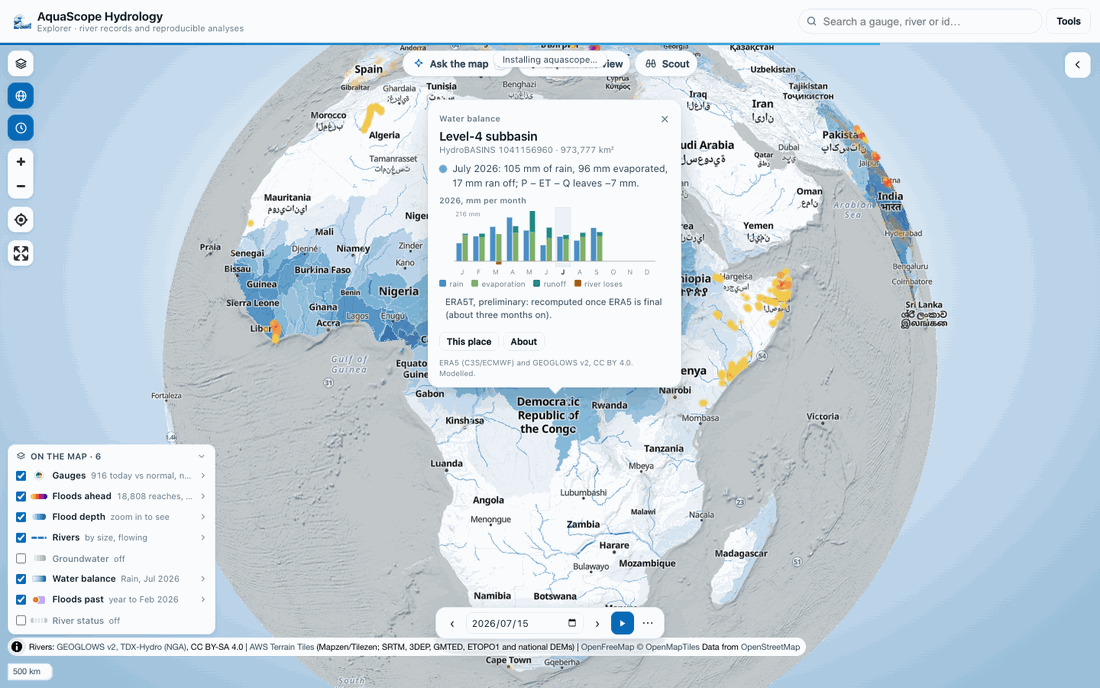
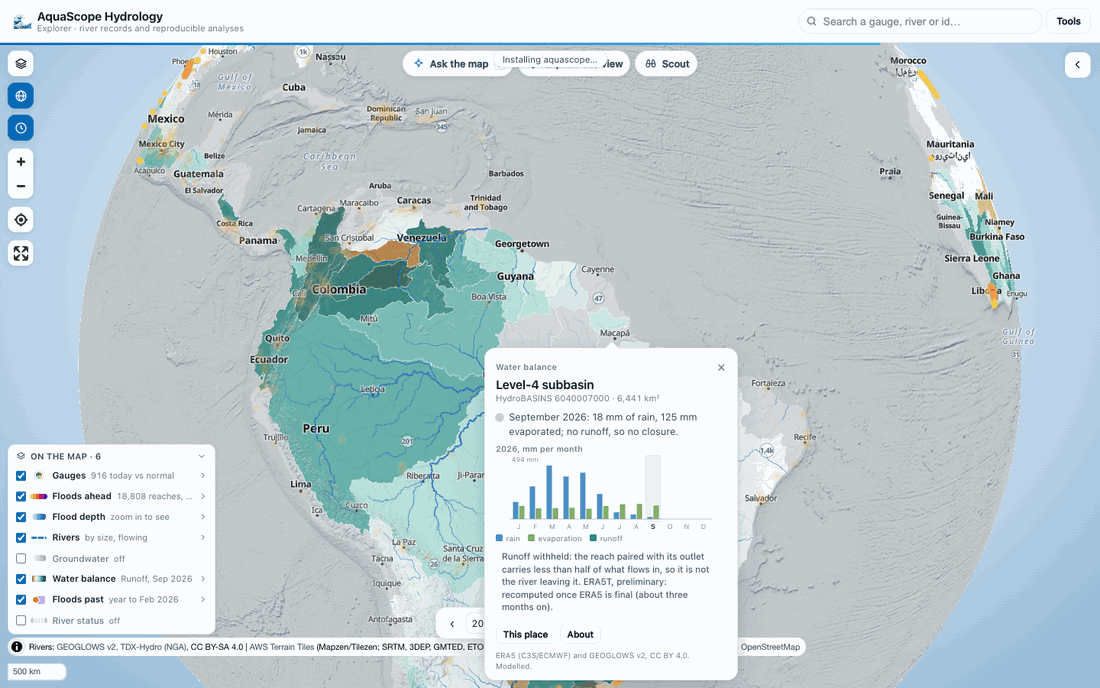
Review (#557): the bars' scale above the bars; screenshots with withheld runoff

diff --git a/explorer/src/waterbalance-core.js b/explorer/src/waterbalance-core.js
@@ -214,8 +214,8 @@ const BAR = { p: "#4a8fc7", et: "#7fb069", q: "#1f8a80", loss: "#a6611a", tick: 
  * The card's bars: the year's months, rain beside evaporation with runoff stacked on it (the gap between the
  * two is the closure error), the normal rain as a short dark tick, the month on the map shaded. An SVG string.
  */
-export function balanceBars(rows, { month = null, normalP = null, w = 264, h = 92 } = {}) {
-  const top = 6, base = h - 16;
+export function balanceBars(rows, { month = null, normalP = null, w = 264, h = 100 } = {}) {
+  const top = 14, base = h - 16;   // the scale's label sits above the tallest bar, not on it
   const vals = [];
   rows.forEach((r, i) => {
     if (Number.isFinite(r.p_mm)) vals.push(r.p_mm);
@@ -261,7 +261,7 @@ export function balanceBars(rows, { month = null, normalP = null, w = 264, h = 9
     parts.push(`<text x="${(m * slot + slot / 2).toFixed(1)}" y="${h - 3}" text-anchor="middle" font-size="9" ` +
       `fill="${ym === month ? "#1f2933" : "#7b8794"}"${ym === month ? ' font-weight="600"' : ""}>${LONG[m][0]}</text>`);
   }
-  parts.push(`<text x="2" y="${top + 7}" font-size="8.5" fill="#7b8794">${fmt0(hi)} mm</text>`);
+  parts.push(`<text x="2" y="${top - 5}" font-size="8.5" fill="#7b8794">${fmt0(hi)} mm</text>`);
   parts.push("</svg>");
   return parts.join("");
 }

diff --git a/docs/explorer.md b/docs/explorer.md
@@ -606,7 +606,7 @@ month from January 1990, so play walks the months.
 - **Turning it on** turns the river status off while it is on (both colour the same
   level-4 basins) and back on after.
 
-![The card of a subbasin: the year as bars](img/globe/waterbalance-card.png)
+![The card of a subbasin at the Amazon mouth: the year as bars, and why its runoff is withheld](img/globe/waterbalance-card.png)
 
 Months after ERA5's final data are ERA5T, preliminary, and are recomputed when final; the
 key and the card say so.
